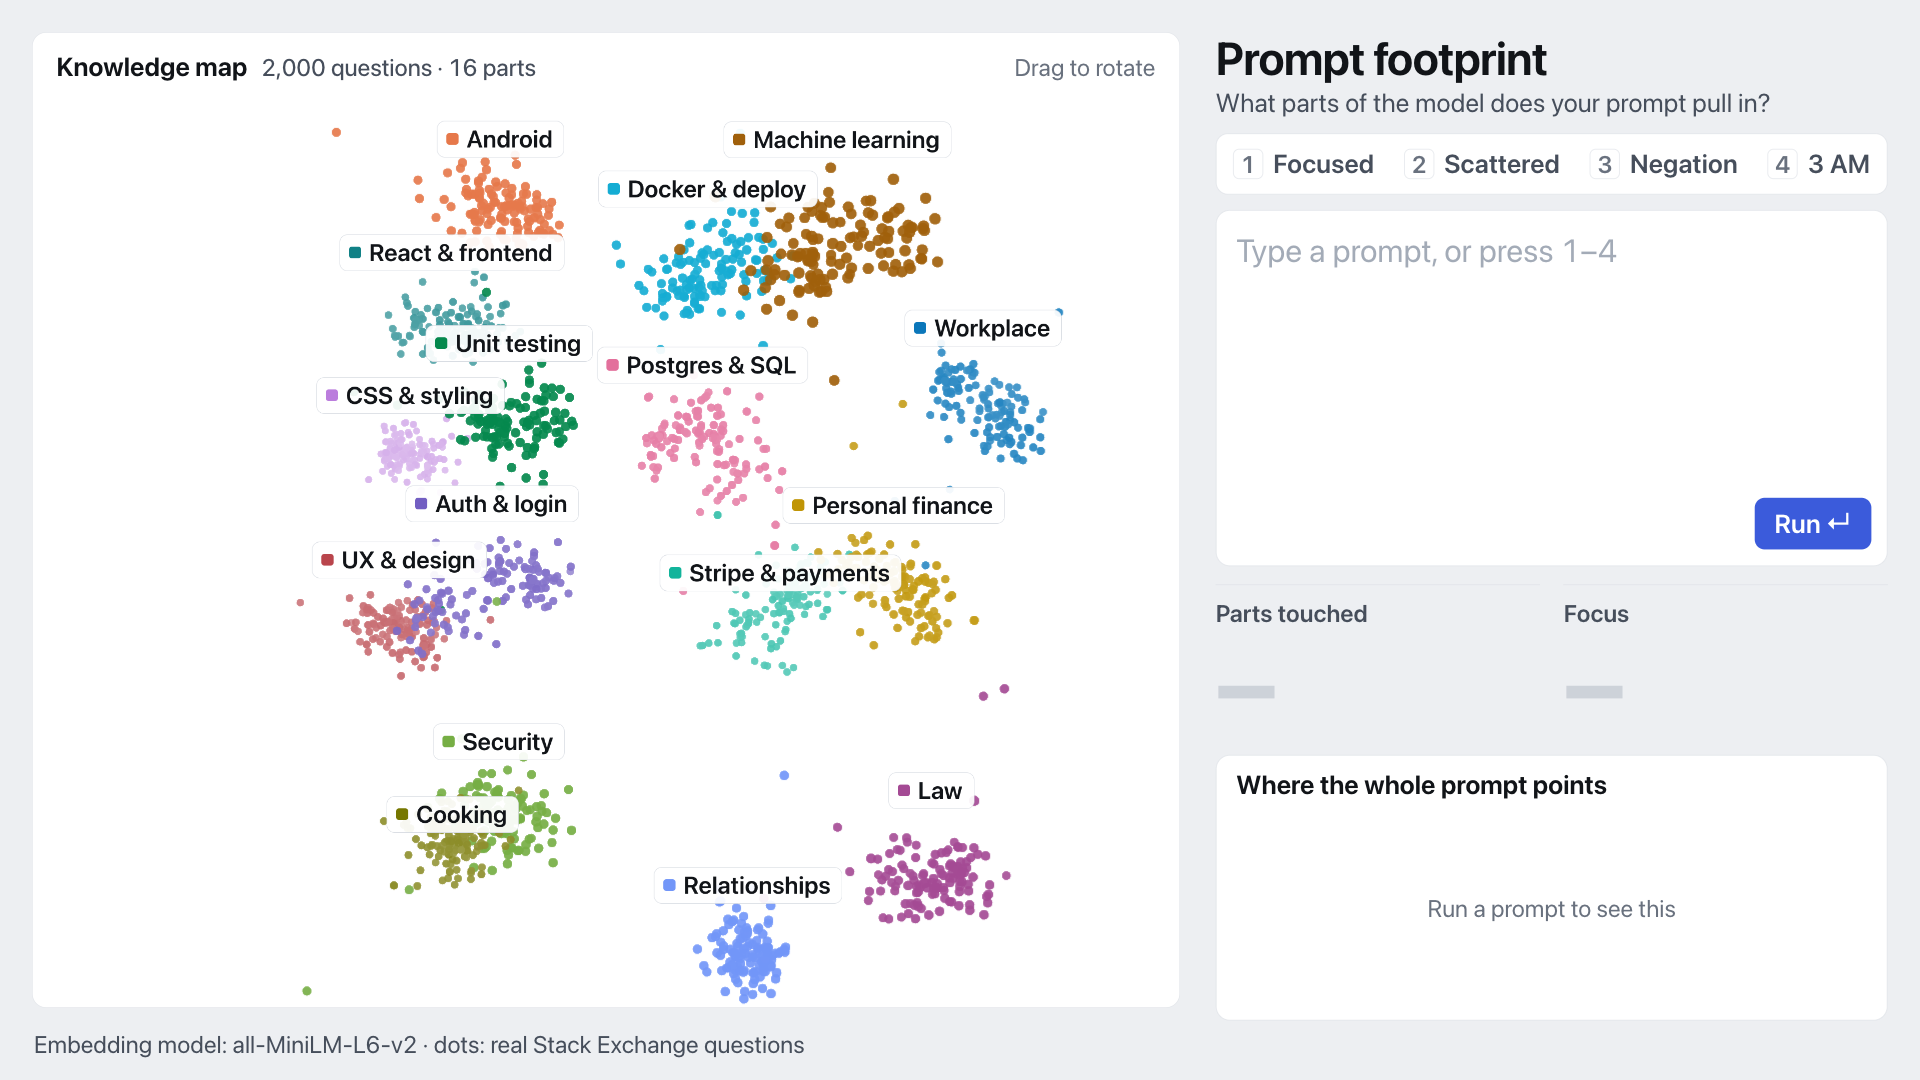
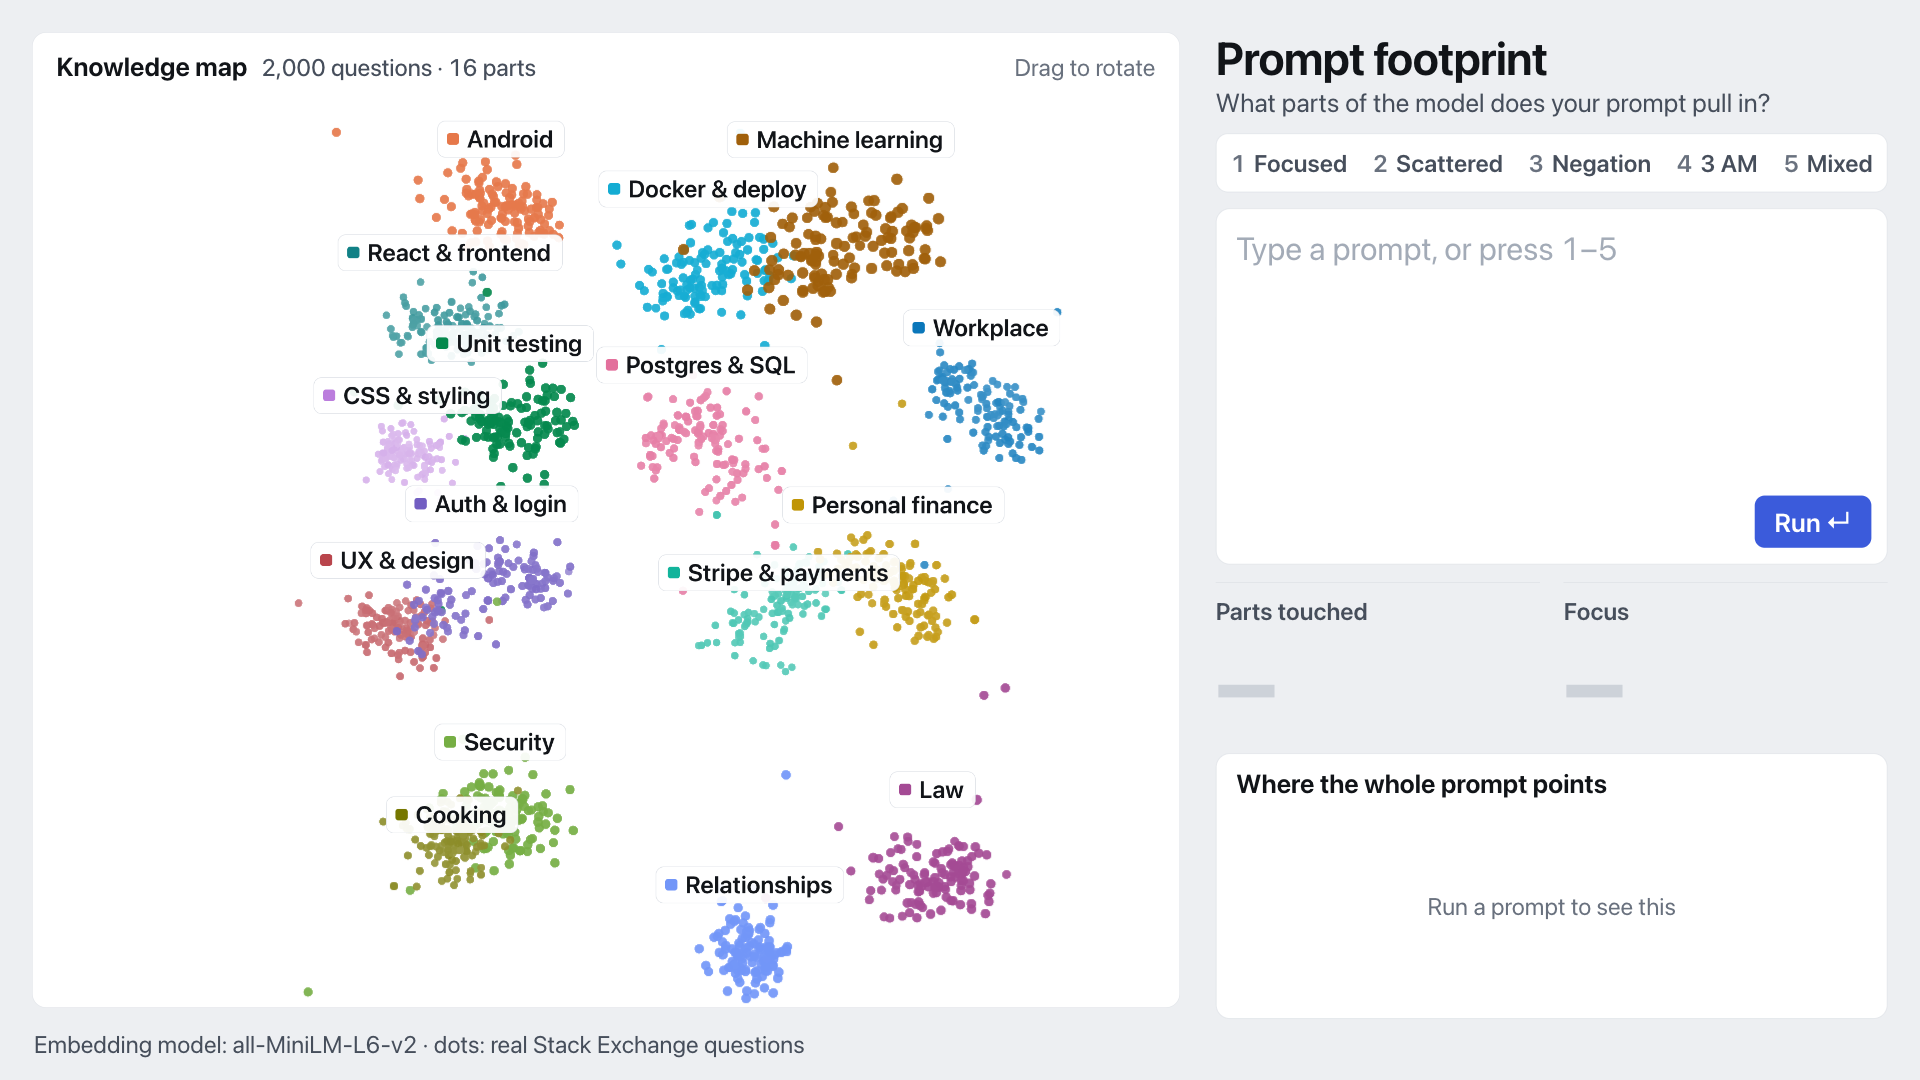
Add preset 5 (Mixed) to the demo UI
Key 5 runs "create me an ai model and a react website for it and also
why isn't she texting me?", which lights ml, react and interpersonal.

- Presets now come straight from demo/presets.json, so a new entry gets
  a button and a number key (up to 9). The built-ins are only a
  fallback, and they now list all five.
- The preset bar is a compact segmented control, so five fit at 24px.
- Key hints, the placeholder and the offline banner follow the count.
- engine.mock.js reuses the engine's splitClauses, so the mock and the
  real engine split prompts the same way.
- Screenshots re-shot for both engines, adding real-5-mixed.png and
  mock-5-mixed.png.

diff --git a/demo/engine.mock.js b/demo/engine.mock.js
@@ -1,6 +1,11 @@
 // Mock of demo/engine.js: the exact API from docs/demo-spec.md, with fake but plausible data.
 // 16 parts, 2,000 points in islands, keyword-driven "embeddings" with the same kNN scoring rules.
+// Clause splitting is pure text processing, so it reuses the real engine's splitClauses (no model loads).
 // Deterministic: the same prompt always gives the same result.
+
+import { splitClauses } from './engine.js';
+
+export { splitClauses };
 
 const DIMS = 384;
 const PER_PART = 125;
@@ -63,12 +68,6 @@ const KEYWORDS = [
   [/\bboss\b|\bmanager\b|\bcoworkers?\b|\bcolleagues?\b|\bjobs?\b|\boffice\b|\binterviews?\b|\bresign\w*|\bpromotion\b|\bappraisal\b/, { workplace: 1 }],
   [/\bcook\w*|\brecipes?\b|\bchicken\b|\brice\b|\bbak(e|ing)\b|\boven\b|\bcurry\b|\bspices?\b|\bdal\b|\bpaneer\b|\bbiryani\b/, { cooking: 1 }],
 ];
-
-const IMPERATIVE = new Set(('add build create make set setup write deploy integrate use implement fix return configure install design update ' +
-  'remove delete refactor test run ship host connect send show display handle generate optimize optimise improve migrate translate explain ' +
-  'give put keep allow enable store save include support do dont don\'t never avoid please style log track cache validate check ensure ' +
-  'change move rename convert paginate sort filter upload download let help tell find get call fetch compute apply prevent limit block ' +
-  'protect encrypt hash secure document review plan scale monitor notify email hook wire publish launch').split(/\s+/));
 
 const LIFE = new Set(['money', 'law', 'workplace', 'interpersonal', 'cooking']);
 // Island depth (3rd UMAP axis): tech parts and everyday-life parts sit in different layers, with spread inside each.
@@ -201,26 +200,6 @@ export async function init(opts = {}) {
 export function getMap() {
   if (!world) throw new Error('engine.mock: call init() first');
   return world.map;
-}
-
-export function splitClauses(prompt) {
-  const text = String(prompt ?? '').replace(/\r/g, '').replace(/^[ \t]*(?:[-*•·]|\d+[.)])[ \t]+/gm, '\n');
-  const out = [];
-  for (const piece of text.split(/\n+|;\s*|(?<=[.!?])\s+(?=\S)/)) {
-    const re = /(,\s*|\s+)((?:(?:and|then|also|plus)\s+)*)([a-z'’]+)/gi;
-    let m, start = 0;
-    while ((m = re.exec(piece))) {
-      const word = m[3].toLowerCase().replace(/’/g, "'");
-      const cut = (m[1].includes(',') || m[2].trim()) && IMPERATIVE.has(word);
-      const wordStart = m.index + m[1].length + m[2].length;
-      if (cut) { out.push(piece.slice(start, m.index)); start = wordStart; }
-      re.lastIndex = wordStart;
-    }
-    out.push(piece.slice(start));
-  }
-  return out
-    .map(s => s.trim().replace(/^(?:and|then|also|plus)\s+/i, '').replace(/[\s.,;:]+$/, '').trim())
-    .filter(s => s.length >= 3);
 }
 
 export async function embed(text) {

diff --git a/demo/ui/data.js b/demo/ui/data.js
@@ -5,6 +5,7 @@ export const BUILTIN_PRESETS = [
   { key: '2', id: 'scattered', name: 'Scattered', prompt: 'Build my React frontend, set up the Postgres database, add Google login, integrate Stripe payments, write the landing page copy, deploy it with Docker and make it look beautiful.' },
   { key: '3', id: 'negation', name: 'Negation', prompt: "Build a simple admin dashboard. Don't use React." },
   { key: '4', id: '3am', name: '3 AM', prompt: 'why is he not replying to my texts, should I text him again?' },
+  { key: '5', id: 'mixed', name: 'Mixed', prompt: "create me an ai model and a react website for it and also why isn't she texting me?" },
 ];
 
 export const keyOf = s => String(s ?? '').toLowerCase().replace(/[’‘]/g, "'").replace(/\s+/g, ' ').trim();
@@ -28,26 +29,26 @@ function entries(json) {
   return [];
 }
 
-const matchPreset = (list, e, i) => {
-  const want = [e.key, e.id, e.name].filter(Boolean).map(keyOf);
-  let idx = list.findIndex(p => ids(p).some(x => want.includes(x)));
-  if (idx < 0 && e.prompt) idx = list.findIndex(p => keyOf(p.prompt) === keyOf(e.prompt));
-  return idx >= 0 ? idx : i < list.length ? i : -1;
-};
-
-/** demo/presets.json (owned by the Engine session) may adjust wording while calibrating. */
+/**
+ * demo/presets.json (owned by the Engine session) is the source of truth: its order sets the keys (1–9),
+ * and it may add presets or retune wording. The built-ins are only used if it can't be loaded.
+ */
 export async function loadPresets(base = BUILTIN_PRESETS, url = 'presets.json') {
-  const list = base.map(p => ({ ...p }));
   try {
-    entries(await loadJson(url)).forEach((e, i) => {
-      const prompt = e.prompt ?? e.text;
-      const idx = typeof prompt === 'string' ? matchPreset(list, e, i) : -1;
-      if (idx >= 0) list[idx].prompt = prompt;
-    });
+    const list = entries(await loadJson(url))
+      .map((e, i) => ({ ...e, prompt: e.prompt ?? e.text }))
+      .filter(e => typeof e.prompt === 'string' && e.prompt.trim())
+      .slice(0, 9)
+      .map((e, i) => {
+        const known = base.find(p => [e.key, e.id, e.name].filter(Boolean).map(keyOf).some(x => ids(p).includes(x)));
+        return { key: String(i + 1), id: e.id ?? known?.id ?? `preset-${i + 1}`, name: e.name ?? known?.name ?? `Preset ${i + 1}`, prompt: e.prompt };
+      });
+    if (list.length) return list;
+    throw new Error(`${url}: no prompts inside`);
   } catch (err) {
     console.info('[demo] using built-in presets:', err.message);
+    return base.map(p => ({ ...p }));
   }
-  return list;
 }
 
 const isResult = o => o && typeof o === 'object' && Array.isArray(o.clauses) && o.whole && typeof o.whole === 'object';

diff --git a/demo/ui/app.js b/demo/ui/app.js
@@ -116,6 +116,7 @@ function renderPresets() {
     b.addEventListener('click', () => { b.blur(); loadPreset(i); });
     presetsEl.append(b);
   });
+  promptEl.placeholder = `Type a prompt, or press ${keysLabel()}`;
   markPreset(activePreset);
 }
 
@@ -125,6 +126,7 @@ function markPreset(i) {
 }
 
 const presetIndexOf = text => presets.findIndex(p => keyOf(p.prompt) === keyOf(text));
+const keysLabel = () => (presets.length > 1 ? `1–${presets.length}` : '1');
 
 function loadPreset(i) {
   if (!presets[i]) return;
@@ -255,7 +257,7 @@ function showWhole(whole, text) {
 
 async function run(text = promptEl.value) {
   text = String(text ?? '').trim();
-  if (!text) { toast('Type a prompt, or press 1–4'); return; }
+  if (!text) { toast(`Type a prompt, or press ${keysLabel()}`); return; }
   clearResults();
   const id = runId;
   promptEl.value = text;
@@ -272,7 +274,7 @@ async function run(text = promptEl.value) {
   if (!live) {
     result = fallback?.find(text) ?? null;
     if (!result) {
-      toast(fallback ? 'The live model is offline, so only presets 1–4 work' : 'The live model is offline and the saved results are missing');
+      toast(fallback ? `The live model is offline, so only presets ${keysLabel()} work` : 'The live model is offline and the saved results are missing');
       card.dataset.view = 'input';
       return;
     }
@@ -389,7 +391,7 @@ async function goOffline(err) {
   try { fallback = await loadFallback(presets); } catch (e) { console.warn('[demo] no saved results', e); fallback = null; }
   const why = String(err?.message ?? err ?? 'unknown error').replace(/\s+/g, ' ').slice(0, 70);
   banner.textContent = fallback
-    ? `Live model didn't load (${why}). Showing saved results for presets 1–4.`
+    ? `Live model didn't load (${why}). Showing saved results for presets ${keysLabel()}.`
     : `Live model didn't load (${why}), and the saved results are missing too.`;
   banner.hidden = false;
   setPhase('error');

diff --git a/demo/ui/style.css b/demo/ui/style.css
@@ -87,15 +87,14 @@ button{cursor:pointer}
 @keyframes pulse{50%{opacity:.3}}
 .sub{margin-top:4px;font-size:26px;color:var(--ink-2)}
 
-.presets{display:flex;gap:4px;margin-top:16px;padding:4px;border:1px solid var(--line);border-radius:12px;background:var(--surface)}
-.presets button{flex:auto;display:inline-flex;align-items:center;justify-content:center;gap:10px;height:52px;padding:0 10px;border:0;
-  border-radius:9px;background:transparent;color:var(--ink-2);font-size:26px;font-weight:600;white-space:nowrap;
+.presets{display:flex;gap:3px;margin-top:16px;padding:3px;border:1px solid var(--line);border-radius:12px;background:var(--surface)}
+.presets button{flex:1 1 auto;display:inline-flex;align-items:center;justify-content:center;gap:8px;height:52px;padding:0 8px;border:0;
+  border-radius:9px;background:transparent;color:var(--ink-2);font-size:24px;font-weight:600;white-space:nowrap;
   transition:background-color .2s,color .2s}
 .presets button:hover{background:var(--track)}
-.presets kbd{display:inline-grid;place-items:center;min-width:30px;height:30px;padding:0 6px;border:1px solid var(--line);border-radius:6px;
-  font:600 24px/1 var(--font);color:var(--ink-3)}
+.presets kbd{font:600 24px/1 var(--font);font-variant-numeric:tabular-nums;color:var(--ink-3)}
 .presets button[aria-pressed=true]{background:var(--accent);color:var(--accent-ink)}
-.presets button[aria-pressed=true] kbd{border-color:rgba(255,255,255,.55);color:var(--accent-ink)}
+.presets button[aria-pressed=true] kbd{color:rgba(255,255,255,.75)}
 
 .card{position:relative;margin-top:16px;height:356px;padding:18px 20px;border:1px solid var(--line);border-radius:14px;background:var(--surface)}
 .card textarea{display:block;width:100%;height:100%;padding:0 0 64px;border:0;outline:0;resize:none;background:transparent;

diff --git a/demo/index.html b/demo/index.html
@@ -43,7 +43,7 @@
     <div class="presets" id="presets"></div>
 
     <div class="card" id="card" data-view="input">
-      <textarea id="prompt" spellcheck="false" placeholder="Type a prompt, or press 1–4" aria-label="Prompt"></textarea>
+      <textarea id="prompt" spellcheck="false" placeholder="Type a prompt, or press a number key" aria-label="Prompt"></textarea>
       <button class="run" id="run" type="button">Run ↵</button>
       <ol class="chips" id="chips" aria-label="The prompt, split into clauses"></ol>
     </div>
